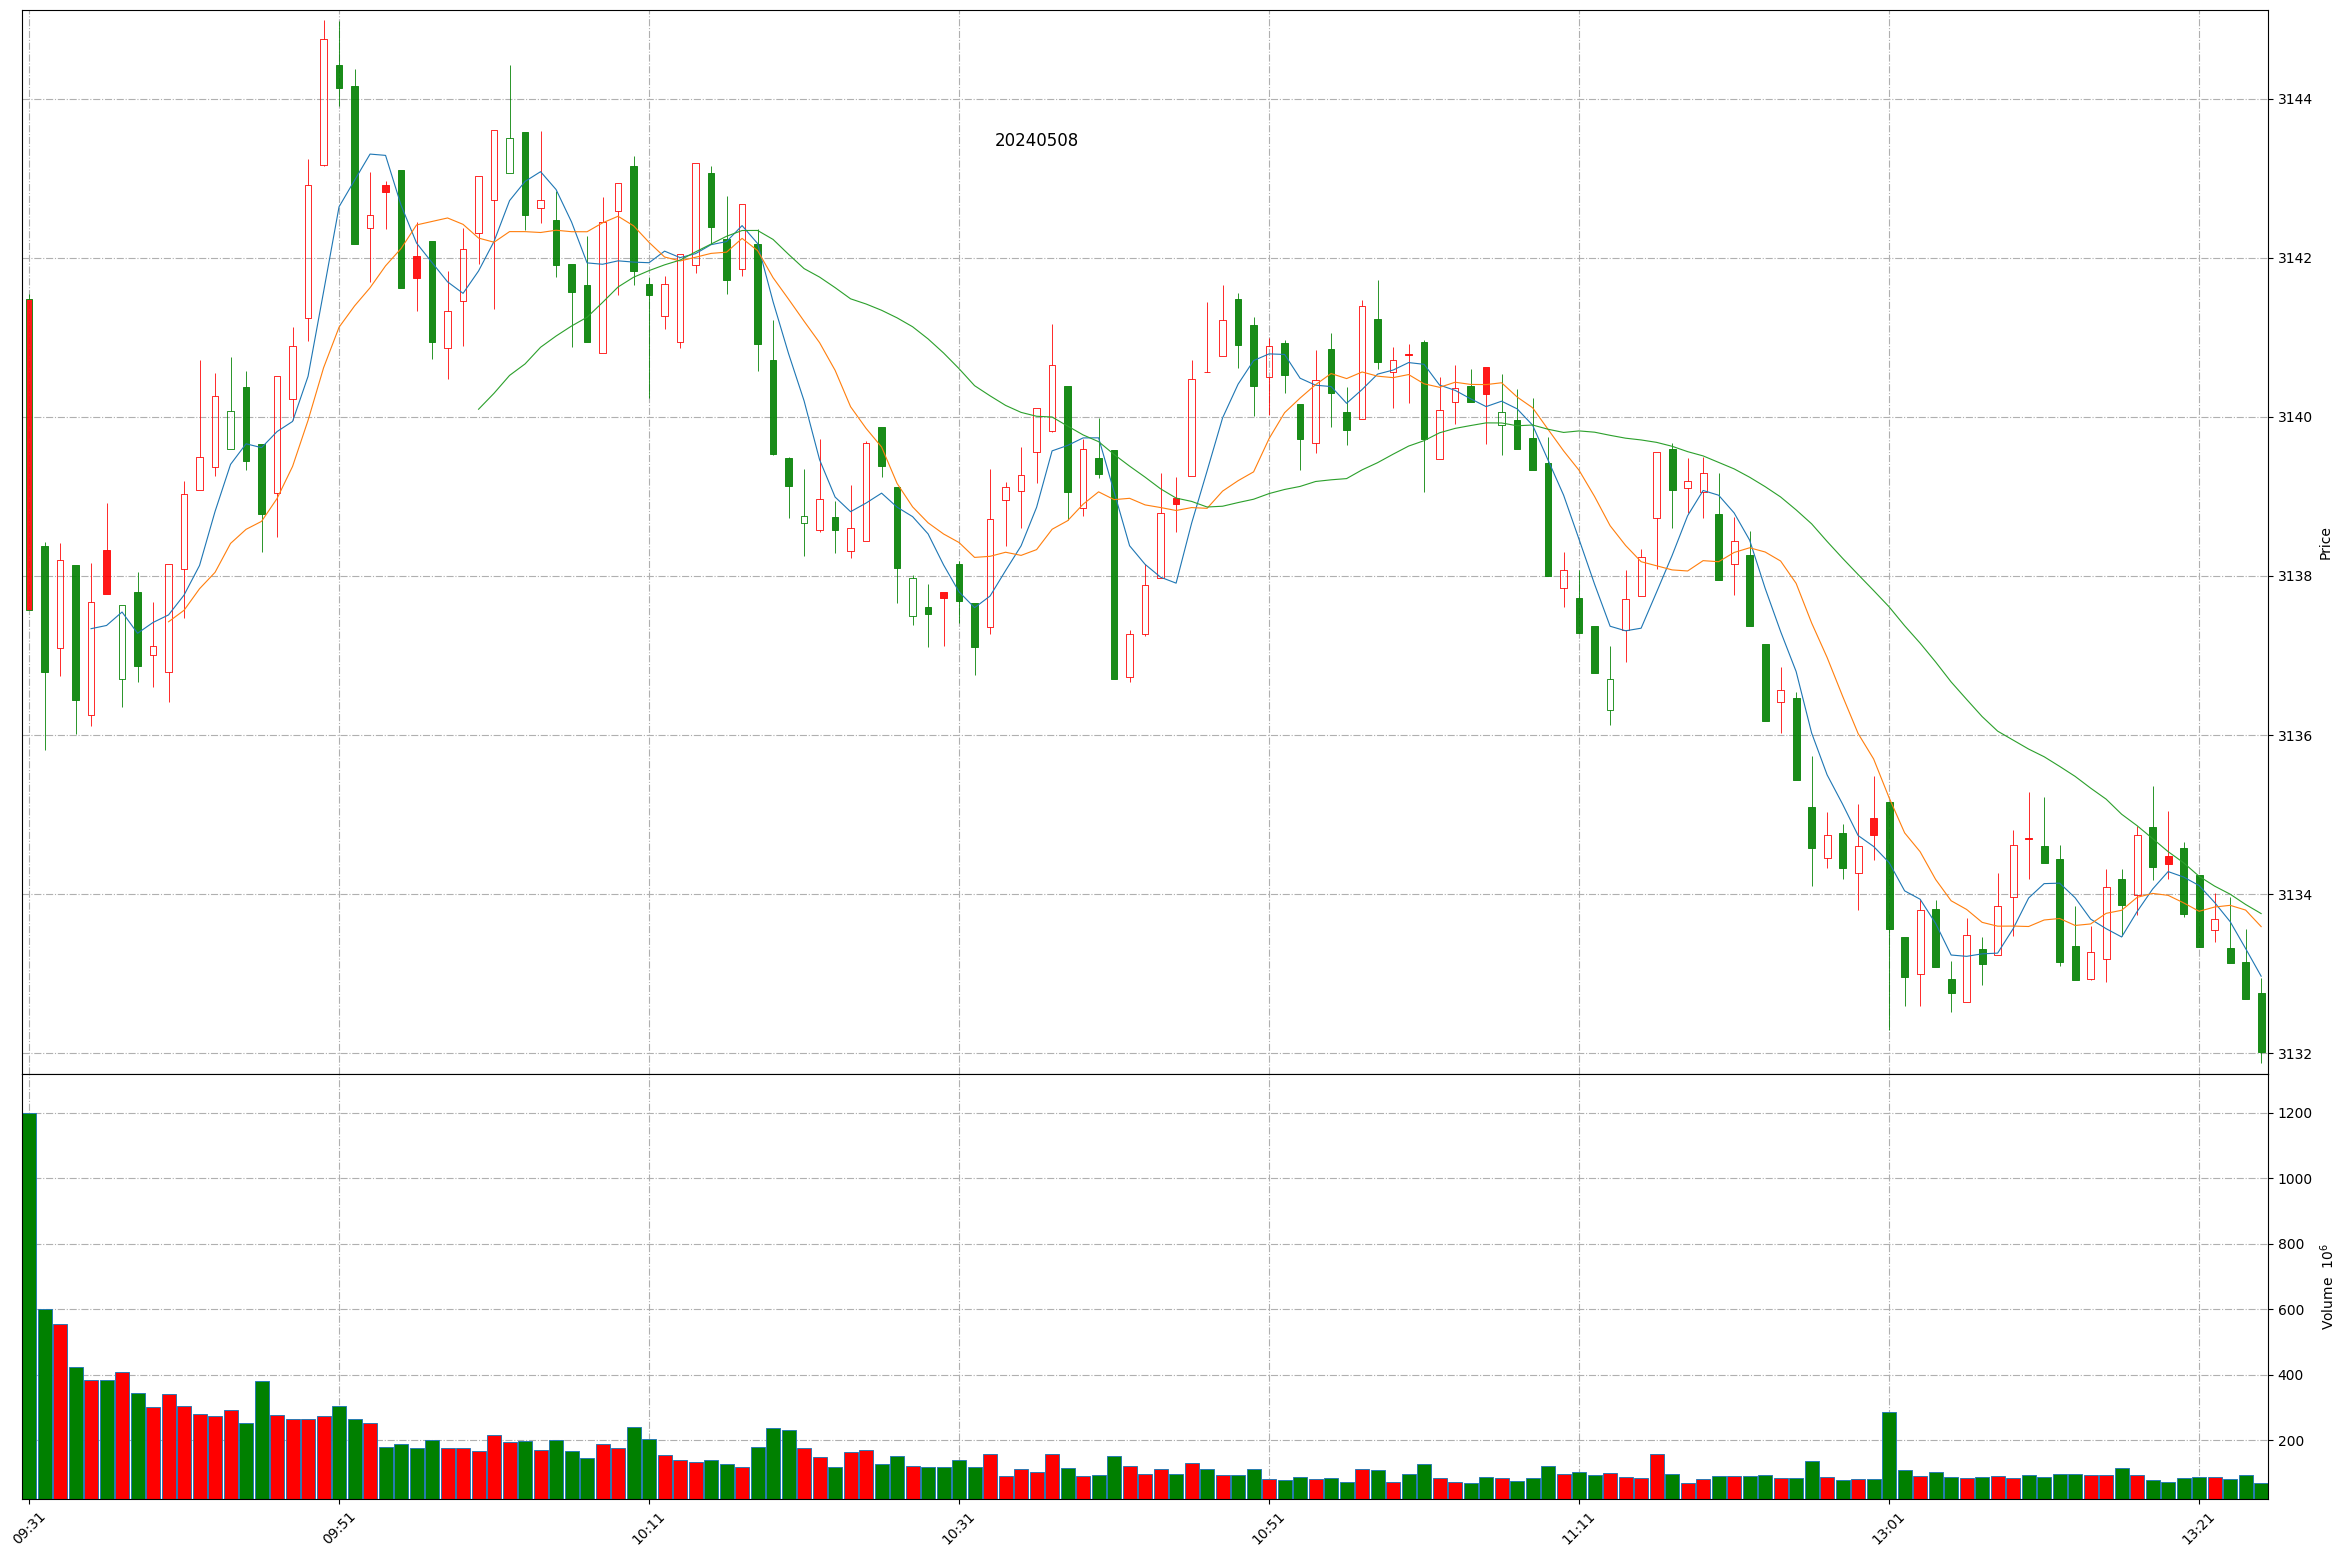
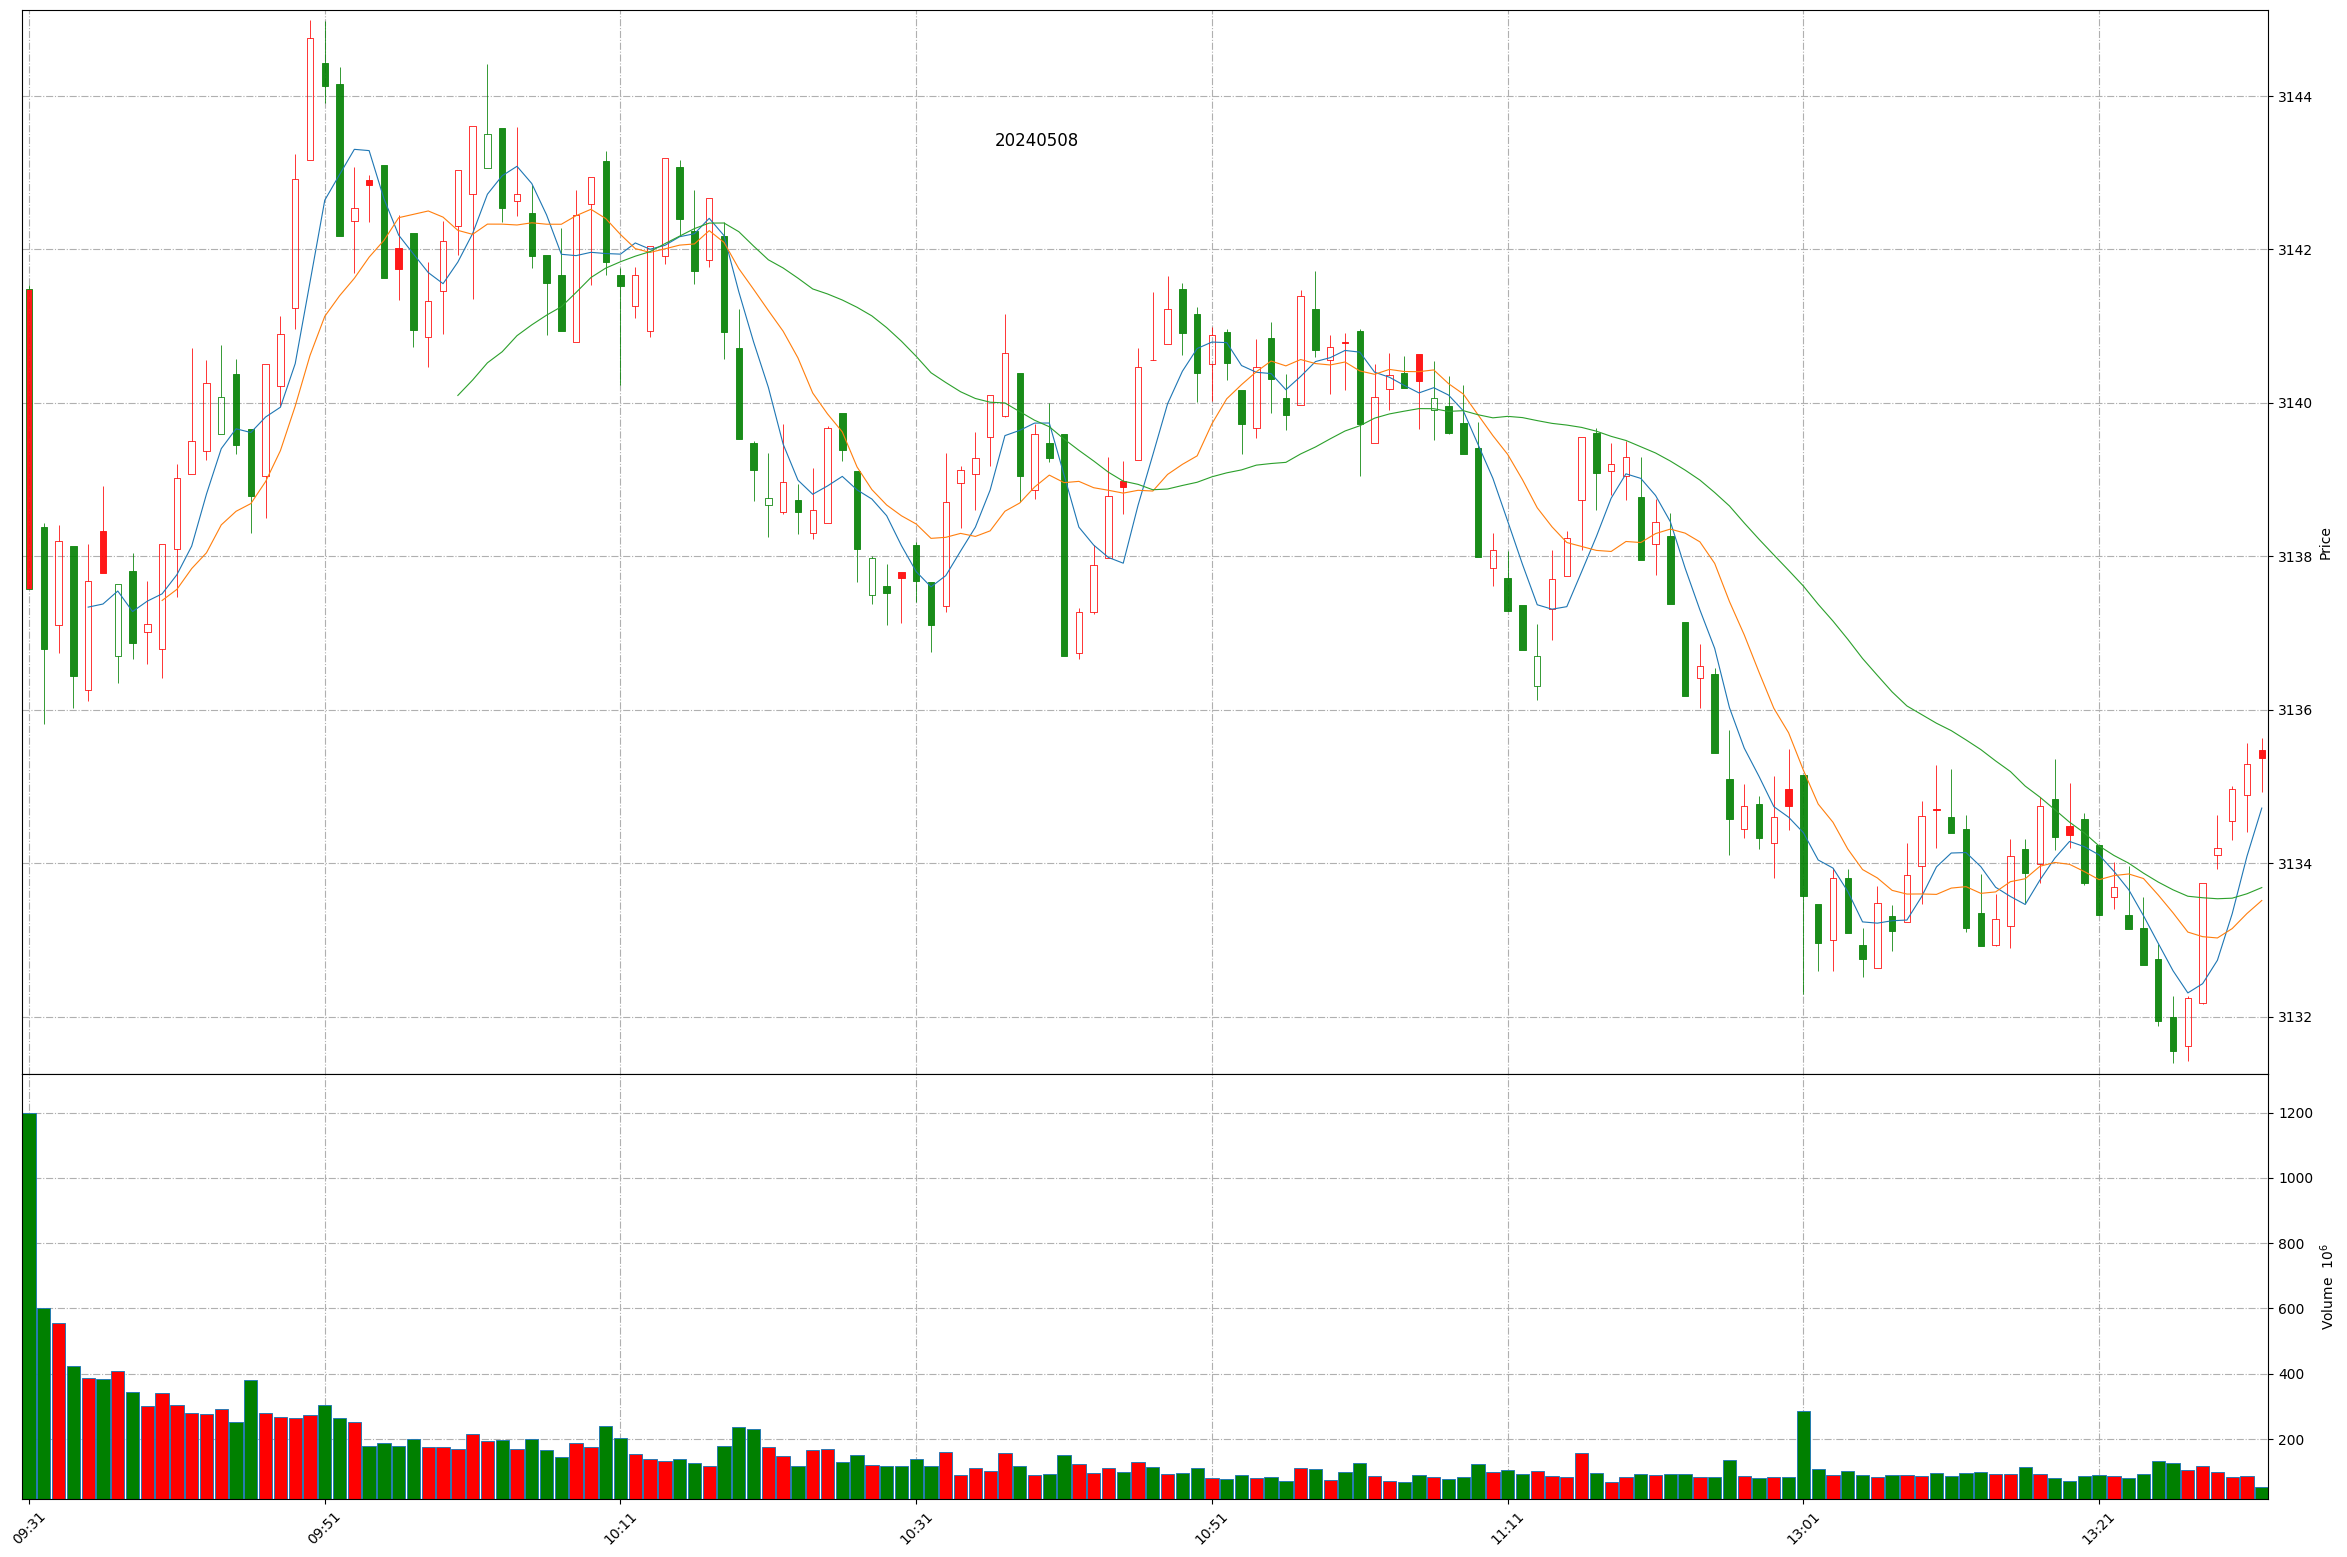
Github action update at 2024-05-08 13:32:07.

Changed region(s): [[0.0, 0.0308, 0.9953, 0.6782], [0.0, 0.8632, 0.9642, 0.9865], [0.9642, 0.2466, 0.9953, 0.2775]]

diff --git a/README.md b/README.md
@@ -1,11 +1,11 @@
 
 # Daily-A-share-market-quotes 每日 A 股指数（5min 更新）- 20240508
 
-### 上证指数 20240508 13:24
+### 上证指数 20240508 13:32
 ![](./fig/2024/5/20240508-sh000001.png)
 
-### 深证成指 20240508 13:24
+### 深证成指 20240508 13:32
 ![](./fig/2024/5/20240508-sz399001.png)
 
-### 北证50 20240508 13:24
+### 北证50 20240508 13:32
 ![](./fig/2024/5/20240508-bj899050.png)
